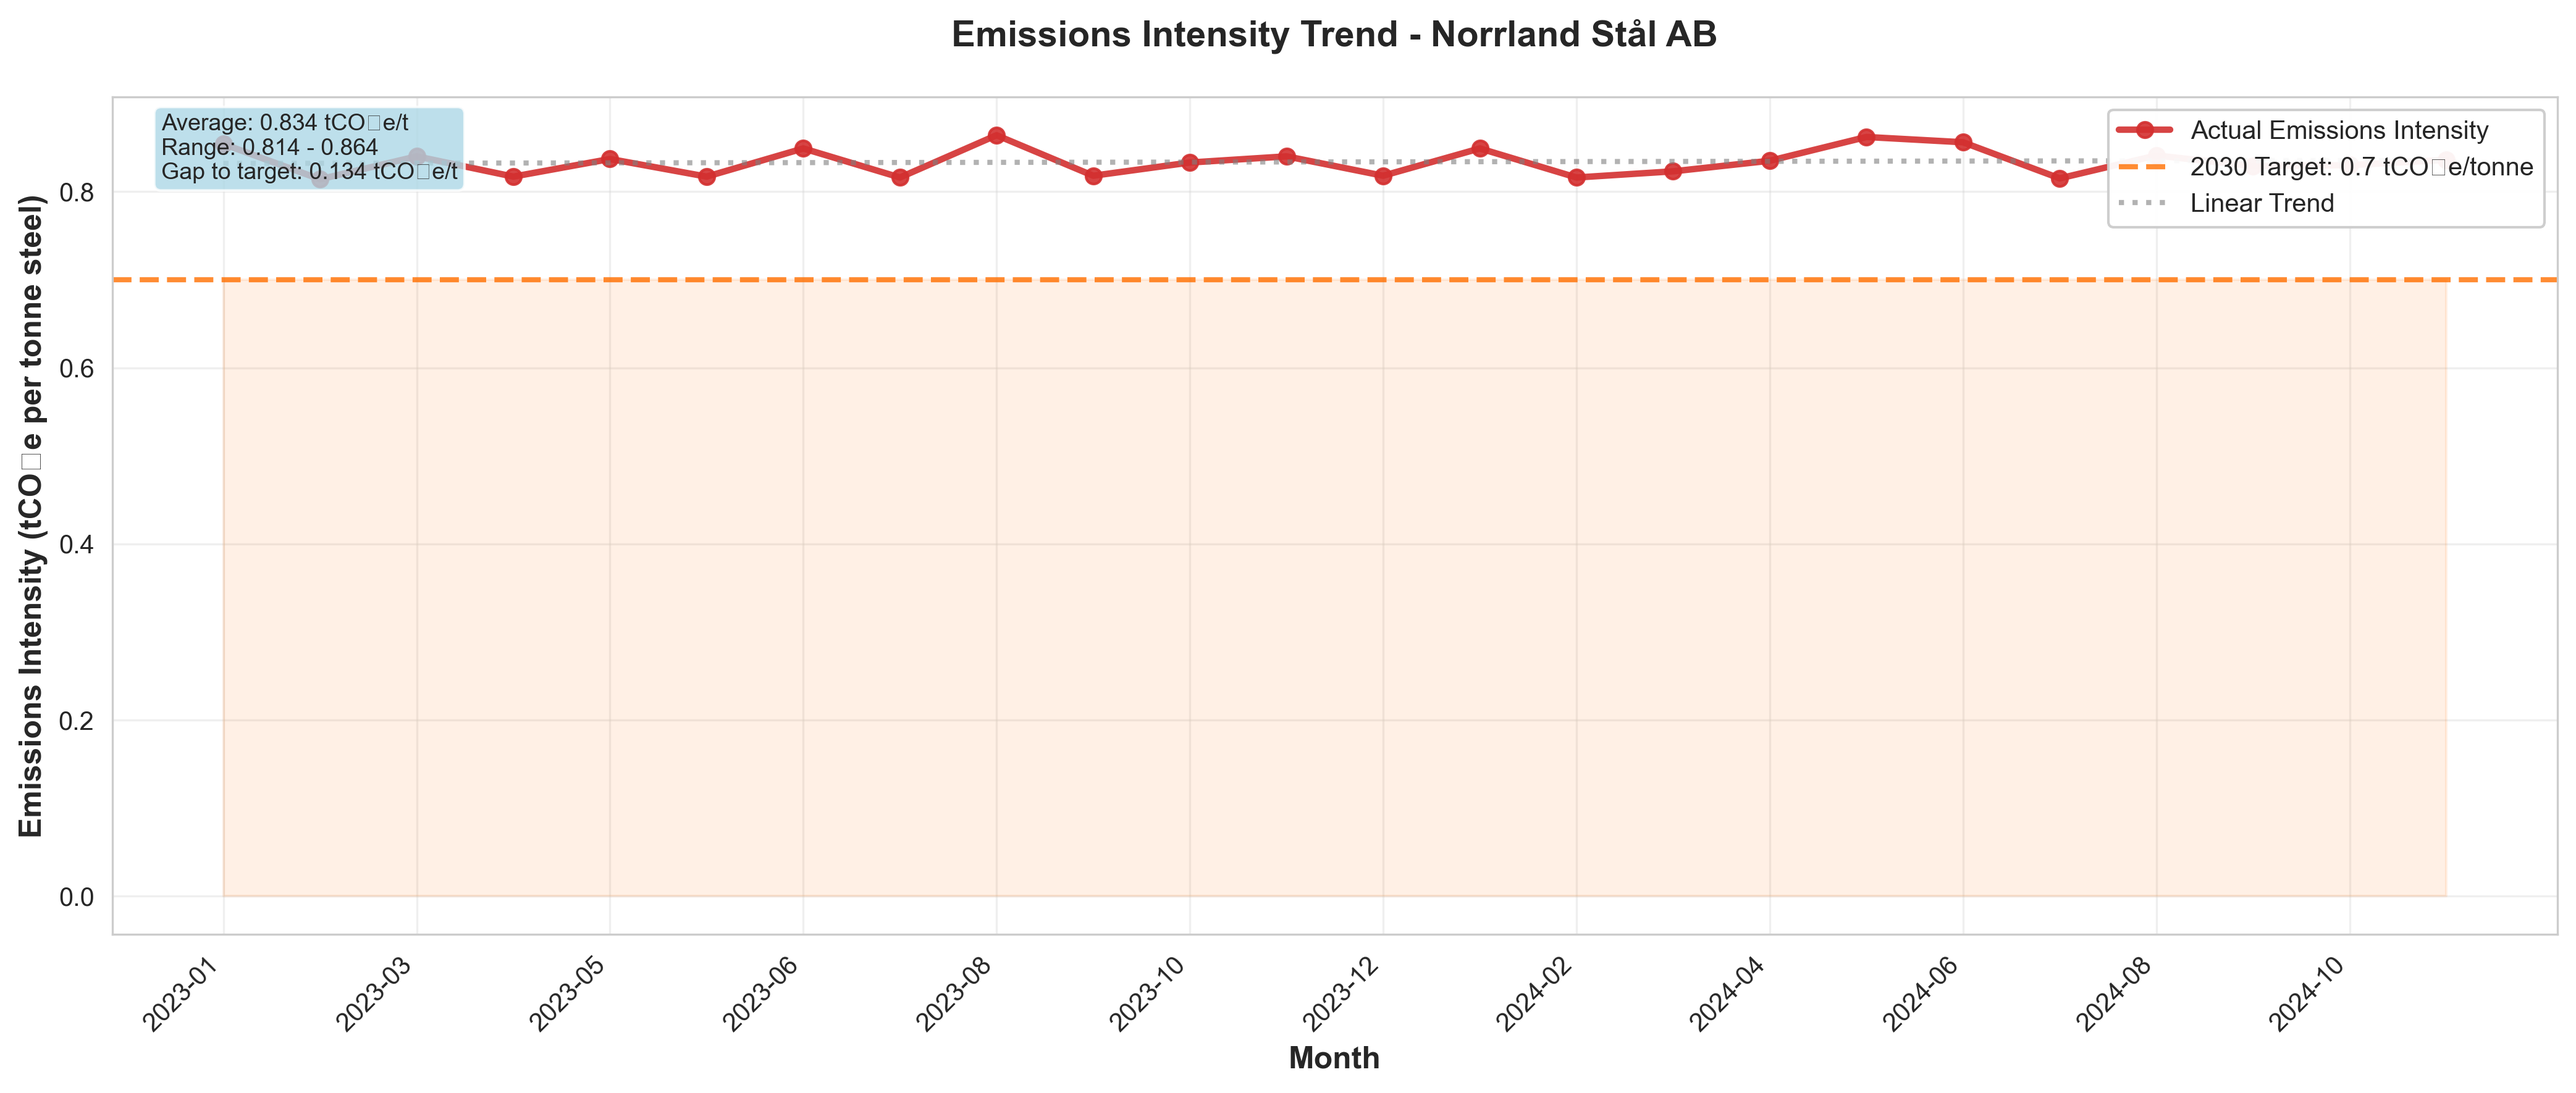
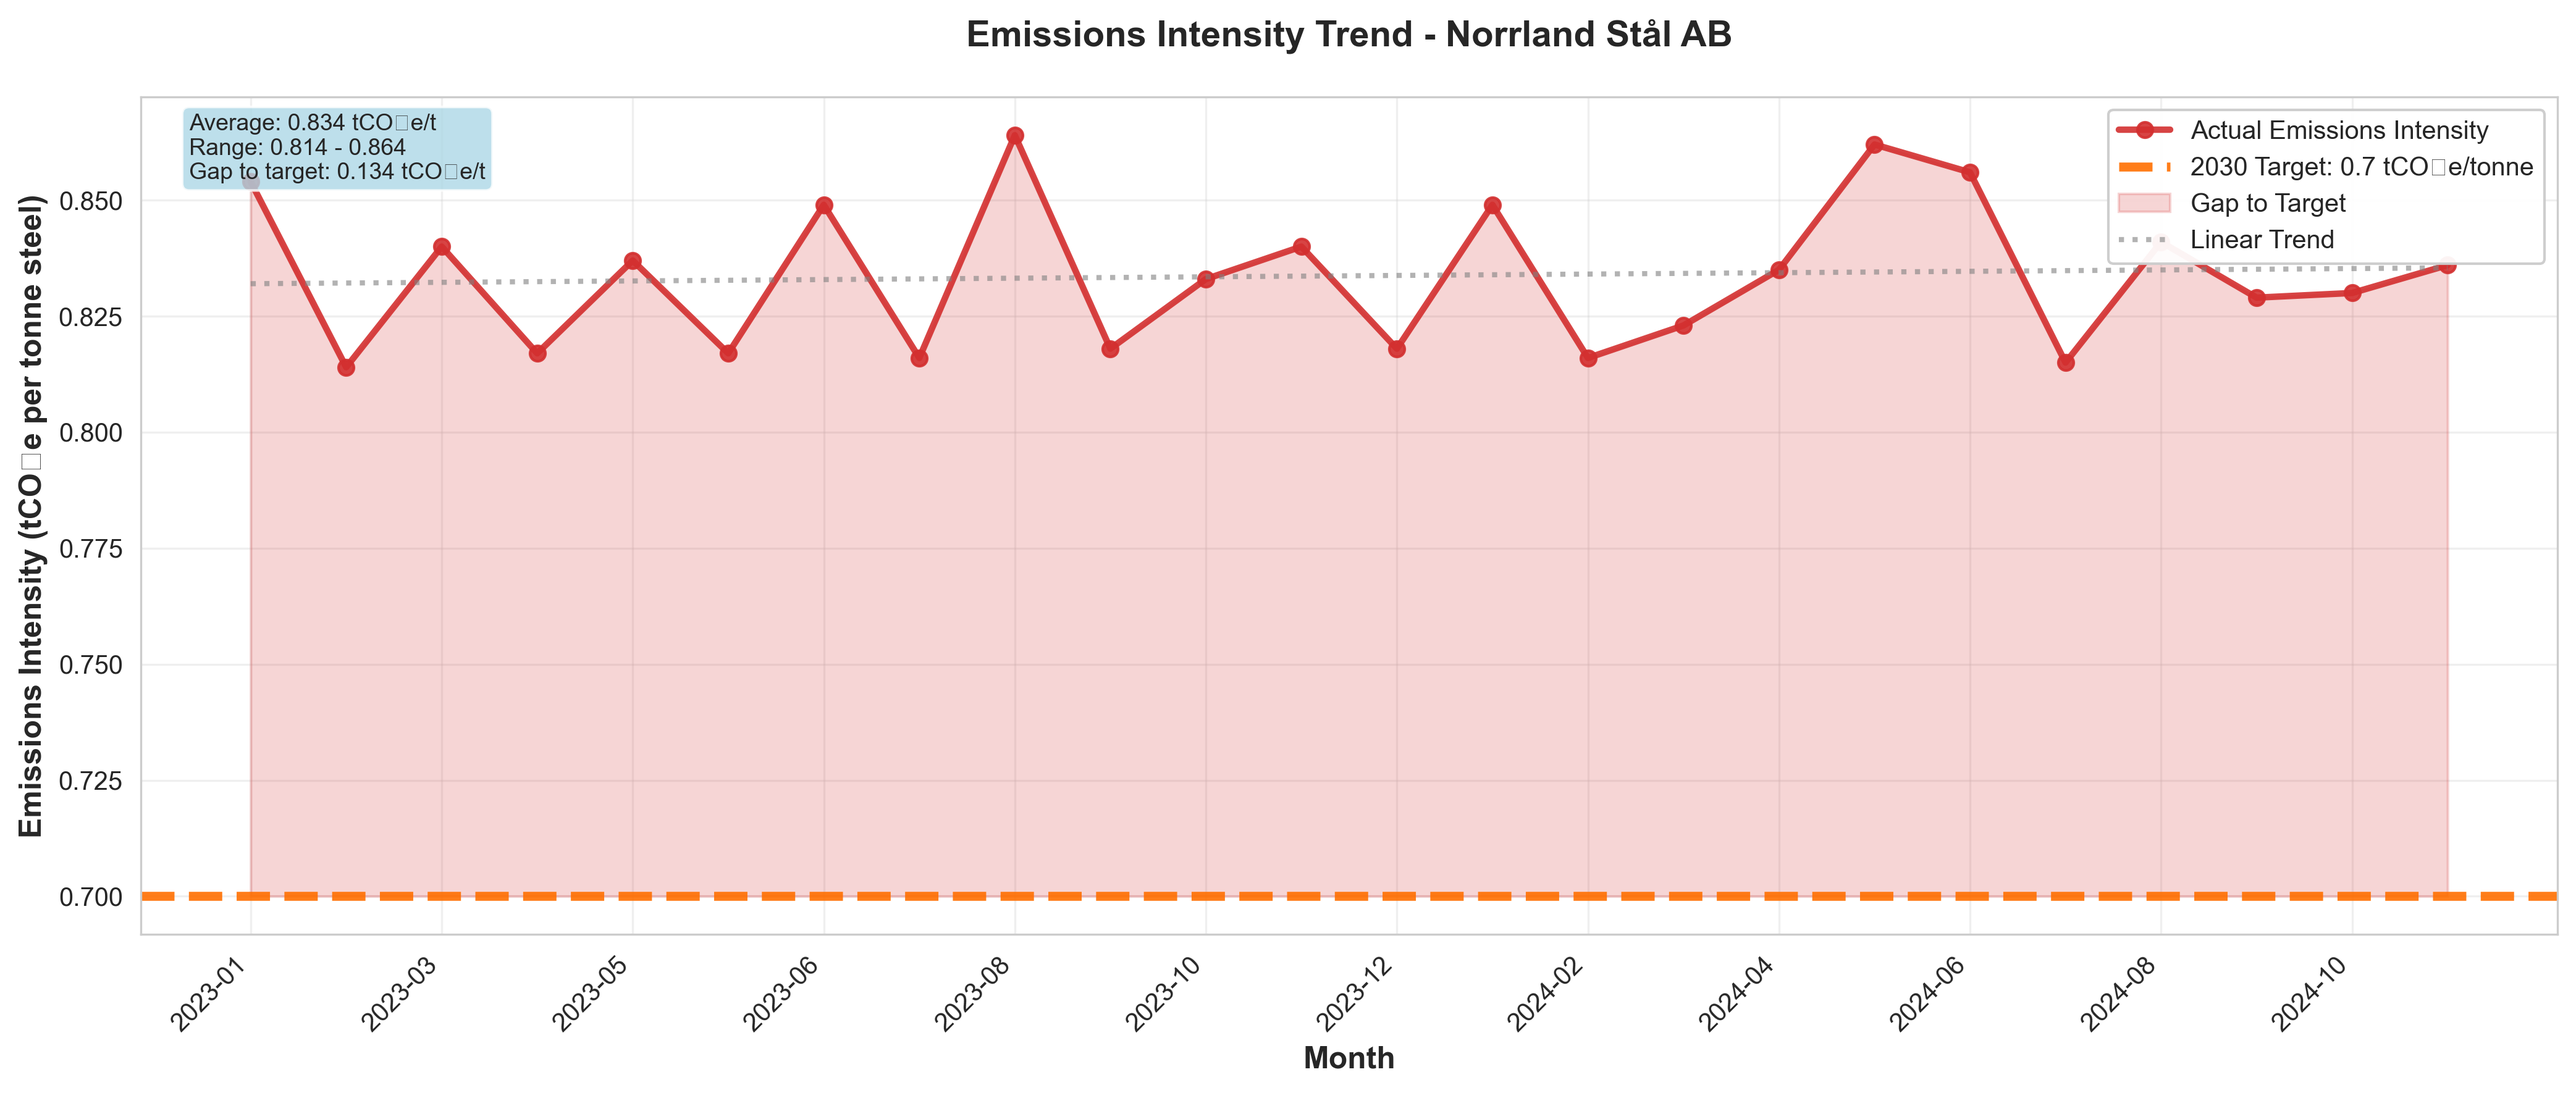
Improve climate visualizations based on user feedback
- Reverse legend order in stacked bar chart to match visual stacking
- Simplify data quality chart to single large pie (removed cluttered second pie)
- Add shaded region between target and actual in intensity trend
- Make target line thicker (3.5px) for better visibility
- Increase font sizes in data quality chart for readability

diff --git a/scripts/generate_visuals.py b/scripts/generate_visuals.py
@@ -86,8 +86,9 @@ def create_stacked_bar_chart(df, output_path):
     ax.set_xticks(x[::2])  # Show every other month
     ax.set_xticklabels(df['Date'].iloc[::2], rotation=45, ha='right')
 
-    # Legend
-    ax.legend(loc='upper left', framealpha=0.95, fontsize=10)
+    # Legend (reversed order to match visual stacking)
+    handles, labels = ax.get_legend_handles_labels()
+    ax.legend(handles[::-1], labels[::-1], loc='upper left', framealpha=0.95, fontsize=10)
 
     # Grid
     ax.yaxis.grid(True, alpha=0.3)
@@ -125,11 +126,16 @@ def create_intensity_trend_chart(df, output_path):
             color=COLORS['scope1'], label='Actual Emissions Intensity',
             alpha=0.9)
 
-    # Add target line (0.70 tCO2e/tonne by 2030)
+    # Add target line (0.70 tCO2e/tonne by 2030) - thicker for visibility
     target = 0.70
     ax.axhline(y=target, color=COLORS['target'], linestyle='--',
-               linewidth=2, label=f'2030 Target: {target} tCO₂e/tonne',
-               alpha=0.8)
+               linewidth=3.5, label=f'2030 Target: {target} tCO₂e/tonne',
+               alpha=0.9)
+
+    # Add shaded region between target and actual values
+    ax.fill_between(x, target, intensity, where=(intensity >= target),
+                     alpha=0.2, color=COLORS['scope1'], interpolate=True,
+                     label='Gap to Target')
 
     # Calculate and show trend
     z = np.polyfit(x, intensity, 1)
@@ -168,9 +174,7 @@ def create_intensity_trend_chart(df, output_path):
             transform=ax.transAxes, fontsize=9, verticalalignment='top',
             bbox=dict(boxstyle='round', facecolor='lightblue', alpha=0.8))
 
-    # Highlight target zone
-    ax.fill_between(x, 0, target, alpha=0.1, color=COLORS['target'],
-                     label='Target Zone')
+    # Target zone no longer needed (replaced with gap shading above)
 
     plt.tight_layout()
     plt.savefig(output_path, dpi=300, bbox_inches='tight')
@@ -183,7 +187,7 @@ def create_data_quality_chart(df, output_path):
     Chart 3: Data Quality Distribution (Pie Chart)
     Shows percentage of measured, calculated, and estimated data
     """
-    fig, (ax1, ax2) = plt.subplots(1, 2, figsize=(14, 6))
+    fig, ax1 = plt.subplots(figsize=(10, 8))
 
     # Overall data quality
     total_measured = (df['Scope1_Measured'].sum() +
@@ -209,69 +213,22 @@ def create_data_quality_chart(df, output_path):
     wedges1, texts1, autotexts1 = ax1.pie(sizes1, explode=explode1, labels=labels1,
                                             colors=colors1, autopct='%1.1f%%',
                                             shadow=True, startangle=90,
-                                            textprops={'fontsize': 10})
+                                            textprops={'fontsize': 14})
 
-    # Make percentage text bold
+    # Make percentage text bold and larger
     for autotext in autotexts1:
         autotext.set_color('white')
         autotext.set_fontweight('bold')
-        autotext.set_fontsize(11)
+        autotext.set_fontsize(16)
 
-    ax1.set_title('Overall Data Quality Distribution\n(All Scopes Combined)',
-                  fontsize=12, fontweight='bold', pad=20)
+    # Make labels larger
+    for text in texts1:
+        text.set_fontsize(14)
 
-    # Pie chart 2: Data quality by scope
-    scope_quality = {
-        'Scope 1\nMeasured': df['Scope1_Measured'].sum(),
-        'Scope 1\nCalculated': df['Scope1_Calculated'].sum(),
-        'Scope 1\nEstimated': df['Scope1_Estimated'].sum(),
-        'Scope 2\nMeasured': df['Scope2_Measured'].sum(),
-        'Scope 2\nCalculated': df['Scope2_Calculated'].sum(),
-        'Scope 3\nMeasured': df['Scope3_Measured'].sum(),
-        'Scope 3\nCalculated': df['Scope3_Calculated'].sum(),
-        'Scope 3\nEstimated': df['Scope3_Estimated'].sum(),
-    }
+    ax1.set_title('Data Quality Distribution - Norrland Stål AB\n(ESRS E1 Requirements)',
+                  fontsize=16, fontweight='bold', pad=30)
 
-    # Filter out zero values
-    scope_quality = {k: v for k, v in scope_quality.items() if v > 0}
-
-    labels2 = list(scope_quality.keys())
-    sizes2 = list(scope_quality.values())
-
-    # Color mapping by scope
-    colors2 = []
-    for label in labels2:
-        if 'Scope 1' in label:
-            if 'Measured' in label:
-                colors2.append('#C62828')
-            elif 'Calculated' in label:
-                colors2.append('#E57373')
-            else:
-                colors2.append('#FFCDD2')
-        elif 'Scope 2' in label:
-            if 'Measured' in label:
-                colors2.append('#1565C0')
-            else:
-                colors2.append('#64B5F6')
-        else:  # Scope 3
-            if 'Measured' in label:
-                colors2.append('#2E7D32')
-            elif 'Calculated' in label:
-                colors2.append('#66BB6A')
-            else:
-                colors2.append('#A5D6A7')
-
-    wedges2, texts2, autotexts2 = ax2.pie(sizes2, labels=labels2, colors=colors2,
-                                            autopct='%1.0f%%', startangle=90,
-                                            textprops={'fontsize': 8})
-
-    for autotext in autotexts2:
-        autotext.set_color('white')
-        autotext.set_fontweight('bold')
-        autotext.set_fontsize(9)
-
-    ax2.set_title('Data Quality by Scope\n(ESRS E1 Breakdown)',
-                  fontsize=12, fontweight='bold', pad=20)
+    # Second pie chart removed for clarity (too many segments)
 
     # Add summary text
     quality_score = (total_measured / total_all) * 100
@@ -282,13 +239,10 @@ def create_data_quality_chart(df, output_path):
     summary_text += f'Calculated: {total_calculated:,.0f} tCO₂e\n'
     summary_text += f'Estimated: {total_estimated:,.0f} tCO₂e'
 
-    fig.text(0.5, 0.02, summary_text, ha='center', fontsize=9,
+    fig.text(0.5, 0.08, summary_text, ha='center', fontsize=11,
              bbox=dict(boxstyle='round', facecolor='lightgray', alpha=0.8))
 
-    plt.suptitle('Data Quality Assessment - Norrland Stål AB (ESRS E1)',
-                 fontsize=14, fontweight='bold', y=0.98)
-
-    plt.tight_layout(rect=[0, 0.1, 1, 0.96])
+    plt.tight_layout(rect=[0, 0.18, 1, 0.96])
     plt.savefig(output_path, dpi=300, bbox_inches='tight')
     plt.close()
     print(f"[OK] Created: {output_path}")
